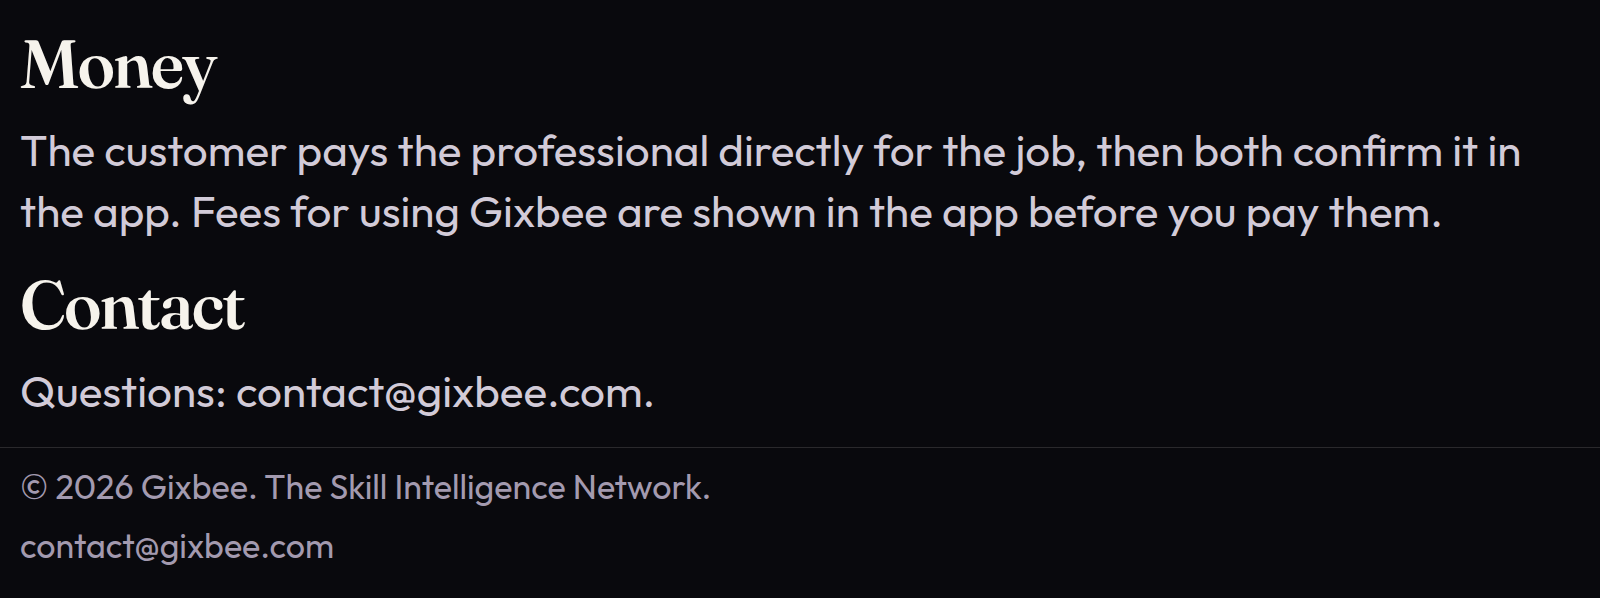
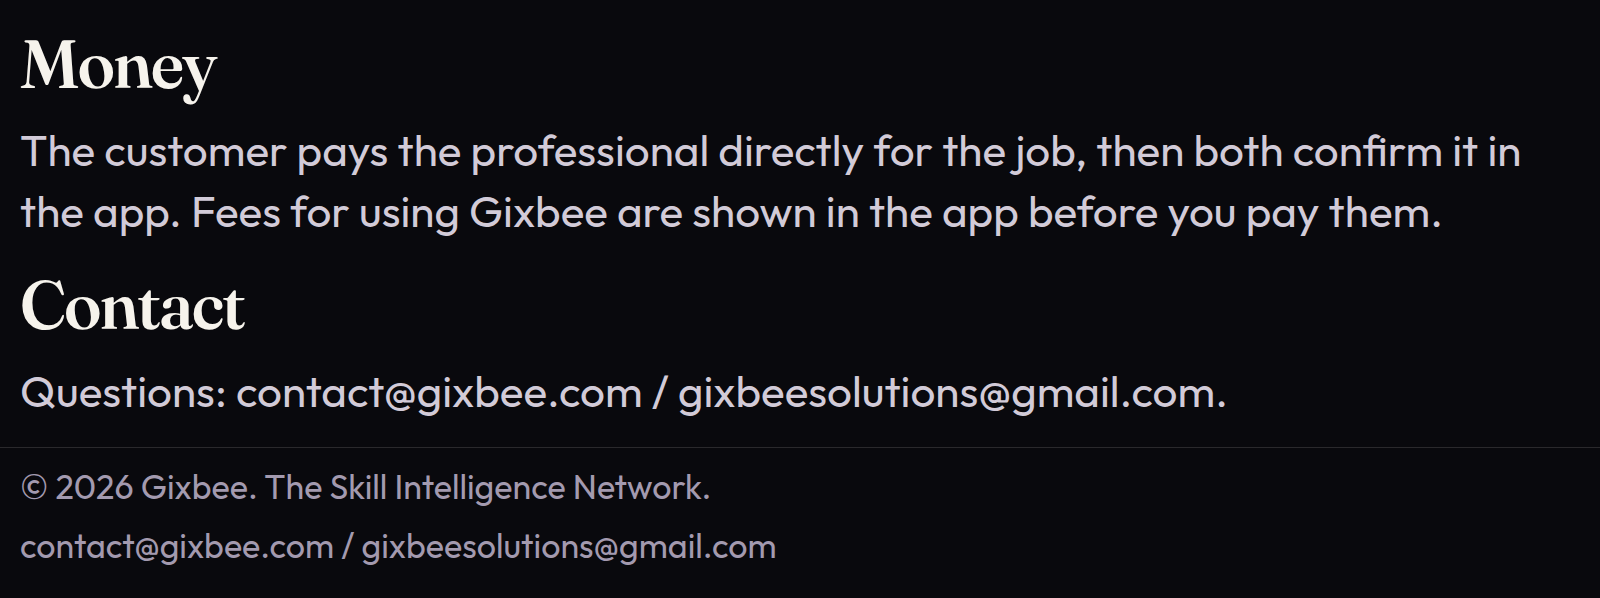
Show both public email addresses.
Contact lines now read contact@gixbee.com / gixbeesolutions@gmail.com on the pages and the Google Sites pictures.

Changed region(s): [[0.4062, 0.6321, 0.7812, 0.6923], [0.2188, 0.903, 0.5, 0.9632]]

diff --git a/site/privacy.html b/site/privacy.html
@@ -4,7 +4,7 @@
   <meta charset="utf-8">
   <meta name="viewport" content="width=device-width, initial-scale=1">
   <title>Privacy — Gixbee</title>
-  <meta name="description" content="Privacy note for the Gixbee apps. Write to contact@gixbee.com.">
+  <meta name="description" content="Privacy note for the Gixbee apps. Write to contact@gixbee.com or gixbeesolutions@gmail.com.">
   <link rel="icon" href="assets/favicon.png" type="image/png">
   <link rel="preconnect" href="https://fonts.googleapis.com">
   <link rel="preconnect" href="https://fonts.gstatic.com" crossorigin>
@@ -23,7 +23,7 @@
         <a href="cloud.html">Platform</a>
         <a href="privacy.html" aria-current="page">Privacy</a>
         <a href="terms.html">Terms</a>
-        <a class="nav-mail" href="mailto:contact@gixbee.com">Email</a>
+        <a class="nav-mail" href="mailto:contact@gixbee.com,gixbeesolutions@gmail.com">Email</a>
       </nav>
     </div>
   </header>
@@ -32,7 +32,7 @@
     <div class="wrap hero prose" data-shot="04-privacy-01">
       <p class="kicker">Privacy</p>
       <h1>What the app uses.</h1>
-      <p>This note covers the Gixbee apps. It was last updated on 19 October 2026. Gixbee starts in Kerala, then the rest of India, then the world. Write to contact@gixbee.com.</p>
+      <p>This note covers the Gixbee apps. It was last updated on 19 October 2026. Gixbee starts in Kerala, then the rest of India, then the world. Write to contact@gixbee.com / gixbeesolutions@gmail.com.</p>
 
       <h2>Information</h2>
       <ul>
@@ -51,7 +51,7 @@
 
         <h2>How it is used</h2>
         <p>We use this information to run the apps: sign-in, bookings, live trips, alerts, and support. Gixbee does not sell personal information.</p>
-        <p>Sign-in codes are sent by a text-message provider and expire quickly. Account and booking records stay while the account is in use, and as needed to finish a job or meet a legal duty. Write to contact@gixbee.com to ask about your account.</p>
+        <p>Sign-in codes are sent by a text-message provider and expire quickly. Account and booking records stay while the account is in use, and as needed to finish a job or meet a legal duty. Write to contact@gixbee.com / gixbeesolutions@gmail.com to ask about your account.</p>
         <p>Gixbee is for adults arranging services, work, and hiring.</p>
       </div>
     </section>
@@ -60,7 +60,7 @@
   <footer>
     <div class="wrap">
       <span>© 2026 Gixbee. The Skill Intelligence Network.</span>
-      <span>contact@gixbee.com</span>
+      <span>contact@gixbee.com / gixbeesolutions@gmail.com</span>
     </div>
   </footer>
 </body>

diff --git a/site/index.html b/site/index.html
@@ -23,7 +23,7 @@
         <a href="cloud.html">Platform</a>
         <a href="privacy.html">Privacy</a>
         <a href="terms.html">Terms</a>
-        <a class="nav-mail" href="mailto:contact@gixbee.com">Email</a>
+        <a class="nav-mail" href="mailto:contact@gixbee.com,gixbeesolutions@gmail.com">Email</a>
       </nav>
     </div>
   </header>
@@ -46,7 +46,7 @@
             <div><dt>Industry</dt><dd>Local services, work, and hiring</dd></div>
             <div><dt>Customers</dt><dd>Households, professionals, job seekers, and local businesses</dd></div>
             <div><dt>Market</dt><dd>Kerala first, then the rest of India, then the world</dd></div>
-            <div><dt>Contact</dt><dd>contact@gixbee.com</dd></div>
+            <div><dt>Contact</dt><dd>contact@gixbee.com / gixbeesolutions@gmail.com</dd></div>
           </dl>
         </aside>
       </div>
@@ -131,7 +131,7 @@
             <h2>Write to Gixbee.</h2>
             <p class="lede">Product, support, and partnership notes use the same public address.</p>
           </div>
-          <p class="mail">contact@gixbee.com</p>
+          <p class="mail">contact@gixbee.com / gixbeesolutions@gmail.com</p>
         </div>
       </div>
     </section>
@@ -140,7 +140,7 @@
   <footer data-shot-end="01-company-05-contact">
     <div class="wrap">
       <span>© 2026 Gixbee. The Skill Intelligence Network.</span>
-      <span>Kerala first, then the rest of India, then the world · contact@gixbee.com</span>
+      <span>Kerala first, then the rest of India, then the world · contact@gixbee.com / gixbeesolutions@gmail.com</span>
     </div>
   </footer>
 </body>

diff --git a/site/terms.html b/site/terms.html
@@ -4,7 +4,7 @@
   <meta charset="utf-8">
   <meta name="viewport" content="width=device-width, initial-scale=1">
   <title>Terms — Gixbee</title>
-  <meta name="description" content="Terms for using Gixbee. Write to contact@gixbee.com.">
+  <meta name="description" content="Terms for using Gixbee. Write to contact@gixbee.com or gixbeesolutions@gmail.com.">
   <link rel="icon" href="assets/favicon.png" type="image/png">
   <link rel="preconnect" href="https://fonts.googleapis.com">
   <link rel="preconnect" href="https://fonts.gstatic.com" crossorigin>
@@ -23,7 +23,7 @@
         <a href="cloud.html">Platform</a>
         <a href="privacy.html">Privacy</a>
         <a href="terms.html" aria-current="page">Terms</a>
-        <a class="nav-mail" href="mailto:contact@gixbee.com">Email</a>
+        <a class="nav-mail" href="mailto:contact@gixbee.com,gixbeesolutions@gmail.com">Email</a>
       </nav>
     </div>
   </header>
@@ -47,7 +47,7 @@
         <p>The customer pays the professional directly for the job, then both confirm it in the app. Fees for using Gixbee are shown in the app before you pay them.</p>
 
         <h2>Contact</h2>
-        <p>Questions: contact@gixbee.com.</p>
+        <p>Questions: contact@gixbee.com / gixbeesolutions@gmail.com.</p>
       </div>
     </section>
   </main>
@@ -55,7 +55,7 @@
   <footer>
     <div class="wrap">
       <span>© 2026 Gixbee. The Skill Intelligence Network.</span>
-      <span>contact@gixbee.com</span>
+      <span>contact@gixbee.com / gixbeesolutions@gmail.com</span>
     </div>
   </footer>
 </body>

diff --git a/site/cloud.html b/site/cloud.html
@@ -23,7 +23,7 @@
         <a href="cloud.html" aria-current="page">Platform</a>
         <a href="privacy.html">Privacy</a>
         <a href="terms.html">Terms</a>
-        <a class="nav-mail" href="mailto:contact@gixbee.com">Email</a>
+        <a class="nav-mail" href="mailto:contact@gixbee.com,gixbeesolutions@gmail.com">Email</a>
       </nav>
     </div>
   </header>
@@ -83,7 +83,7 @@
   <footer>
     <div class="wrap">
       <span>© 2026 Gixbee. The Skill Intelligence Network.</span>
-      <span>Hosted on Microsoft Azure · contact@gixbee.com</span>
+      <span>Hosted on Microsoft Azure · contact@gixbee.com / gixbeesolutions@gmail.com</span>
     </div>
   </footer>
 </body>

diff --git a/site/product.html b/site/product.html
@@ -23,7 +23,7 @@
         <a href="cloud.html">Platform</a>
         <a href="privacy.html">Privacy</a>
         <a href="terms.html">Terms</a>
-        <a class="nav-mail" href="mailto:contact@gixbee.com">Email</a>
+        <a class="nav-mail" href="mailto:contact@gixbee.com,gixbeesolutions@gmail.com">Email</a>
       </nav>
     </div>
   </header>
@@ -72,7 +72,7 @@
   <footer>
     <div class="wrap">
       <span>© 2026 Gixbee. The Skill Intelligence Network.</span>
-      <span>contact@gixbee.com</span>
+      <span>contact@gixbee.com / gixbeesolutions@gmail.com</span>
     </div>
   </footer>
 </body>
